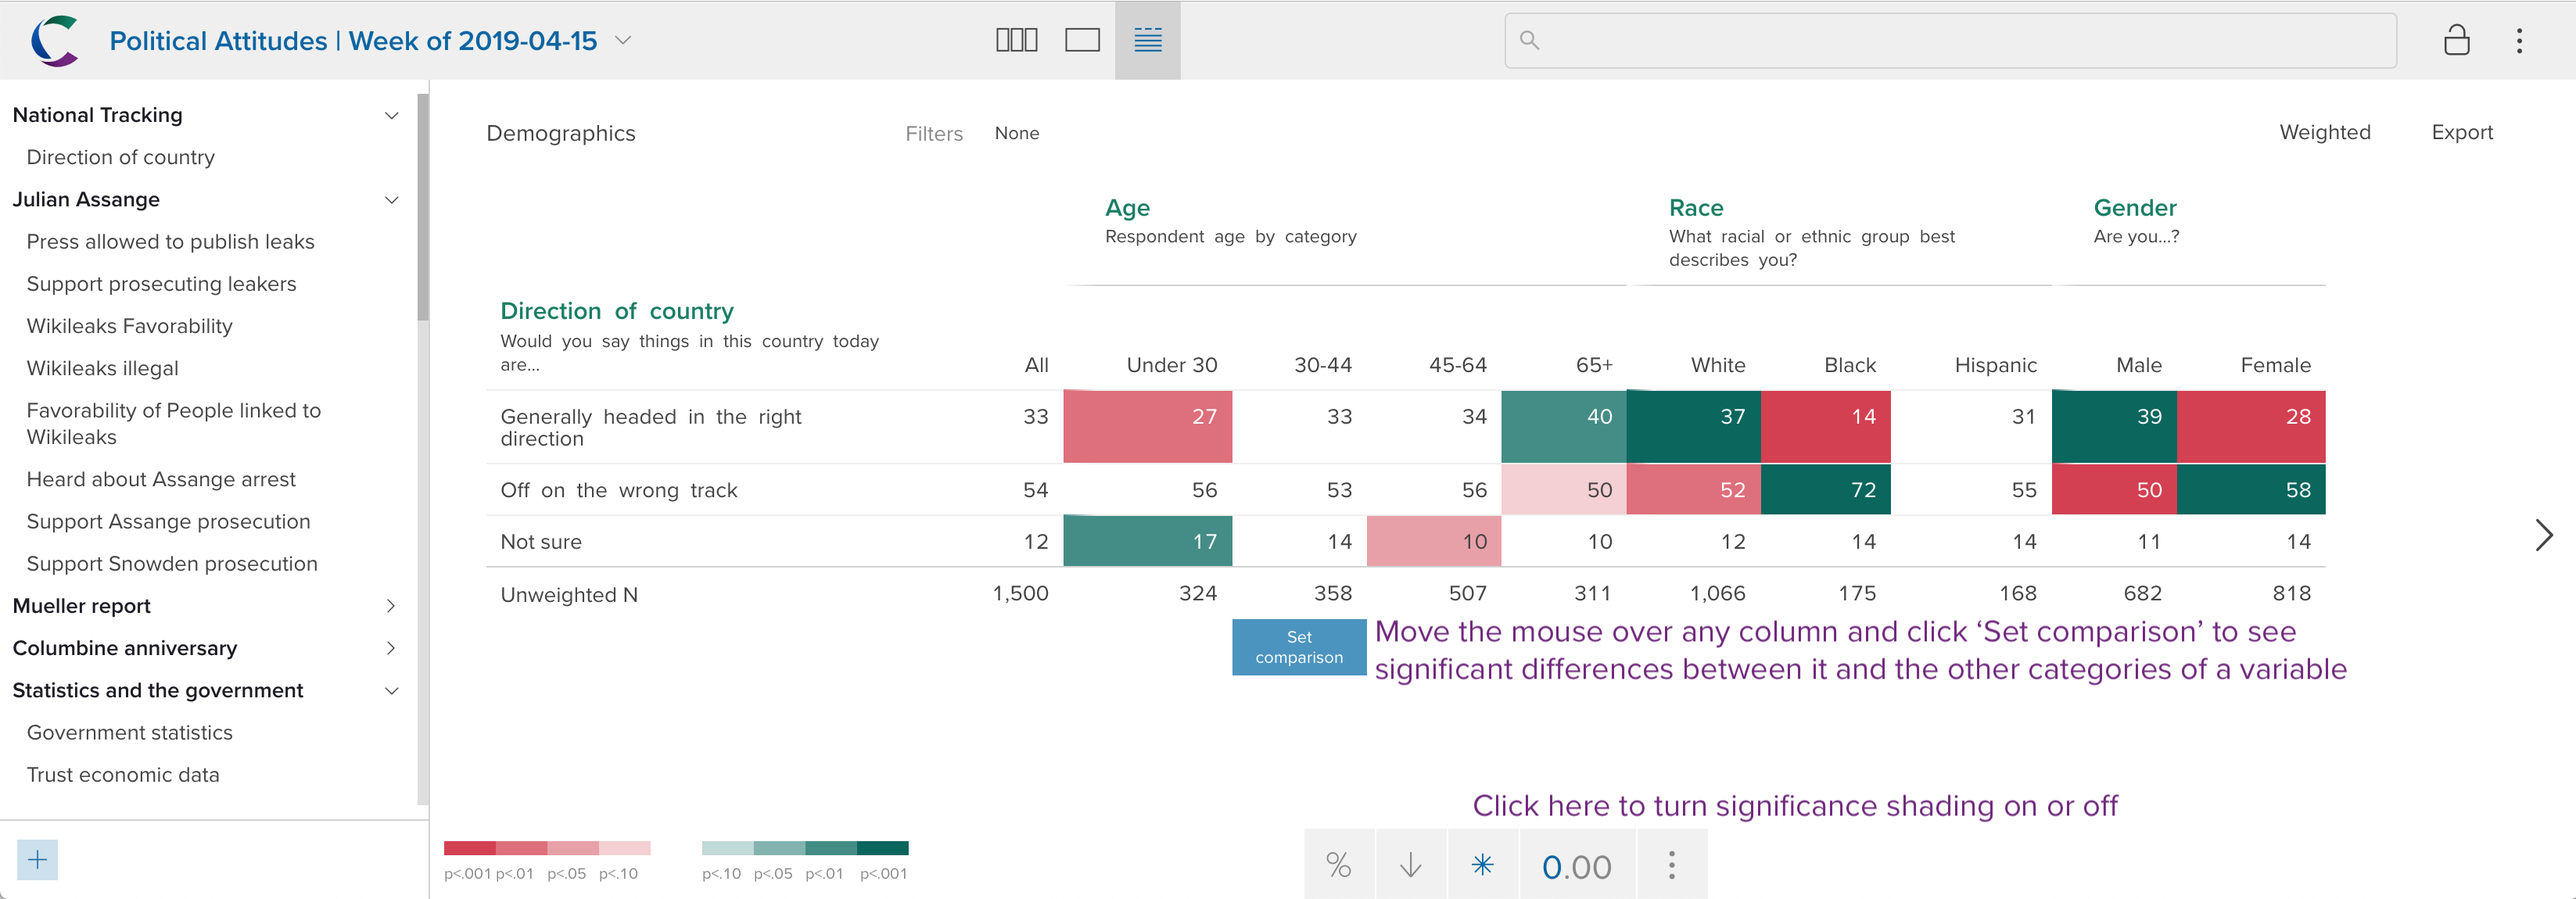
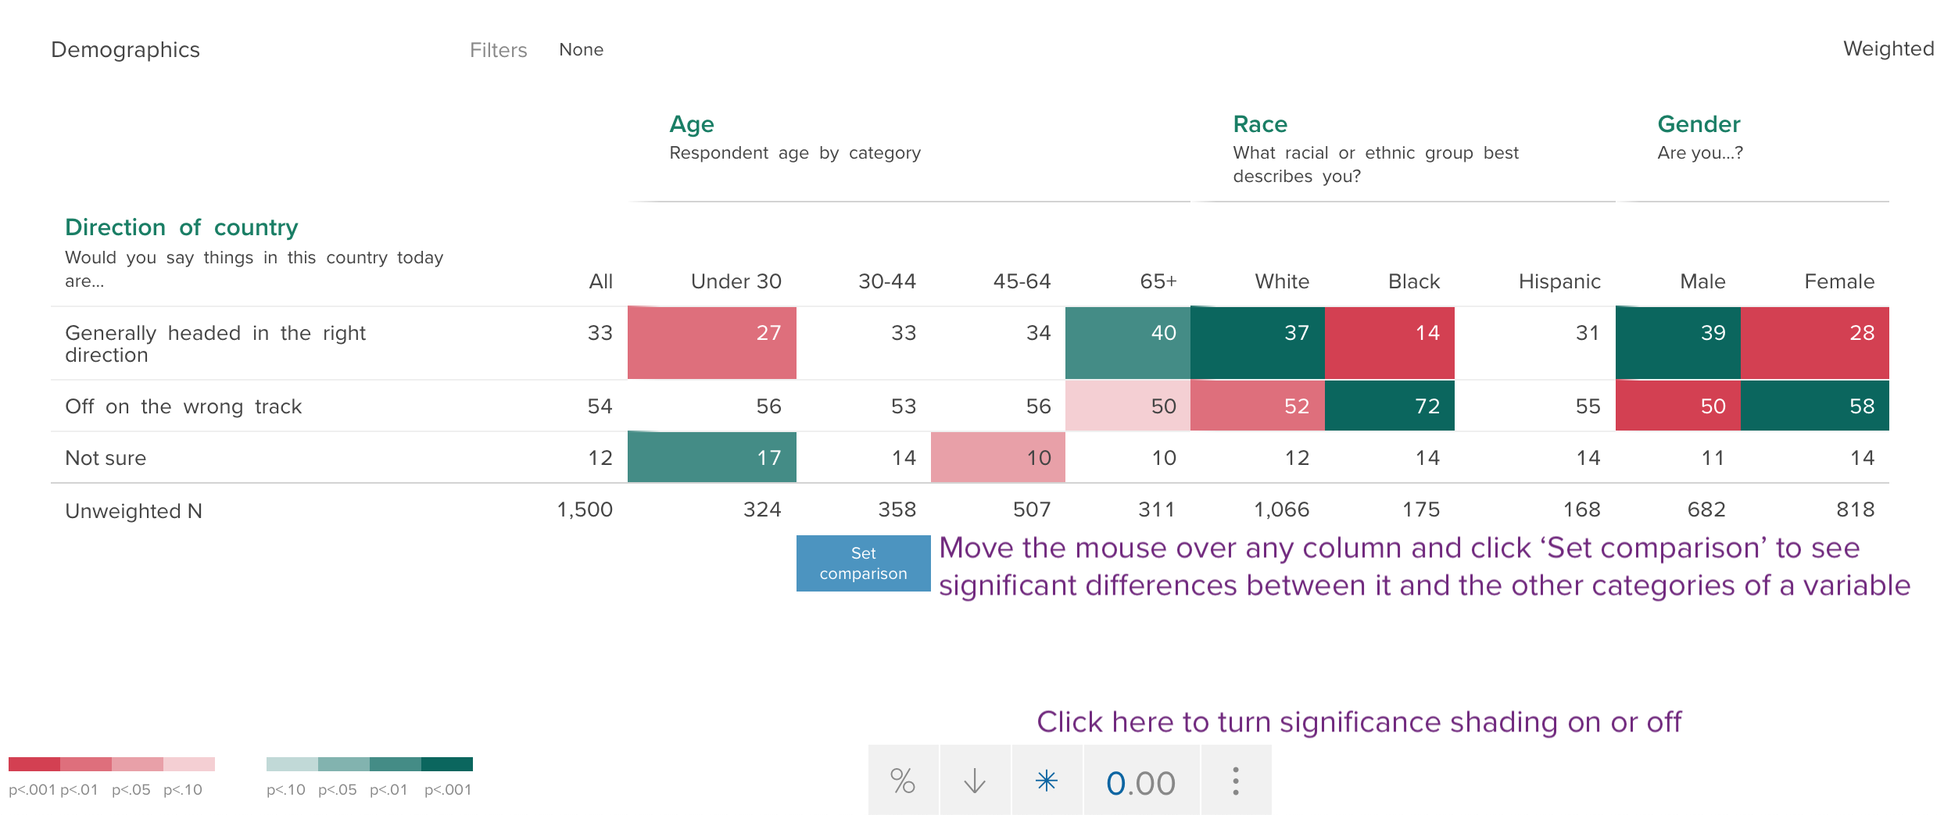
image tweaks

diff --git a/content/dev/features/click-to-compare.md b/content/dev/features/click-to-compare.md
@@ -13,11 +13,11 @@ Tables in the application now let you set a column as the basis of comparison, s
 
 First turn on significance shading using the display controls at the bottom of the screen. The coloring ranges from dark green (much higher) to dark red (much lower) according to the P-value of the difference of what would be expected if the row and column variables were independent, based on the standardized residuals of the crosstab. To base all comparisons on a specific column, move your mouse over any column of a table or multitable. A new button appears beneath the column: “Set comparison.”
 
-{{< figure src="dev/features/images/click-to-compare-static.png" class="img-fluid">}}
+{{< figure src="dev/features/images/click-to-compare-static.png" class="img-fluid bordered">}}
 
 When a column comparison is set, the reference column becomes grey and the other categories of its variable are colored by the _P_-value of their column percentage compared to the reference column. The reference column will remain set as long as the same column variable is in place, or you click Reset in the same column or select a different reference column.
 
-{{< figure src="dev/features/images/click-to-compare-result-static.png" class="img-fluid">}}
+{{< figure src="dev/features/images/click-to-compare-result-static.png" class="img-fluid bordered">}}
 
 
 {{< figure src="dev/features/images/compare-columns.gif" class="img-fluid">}}
